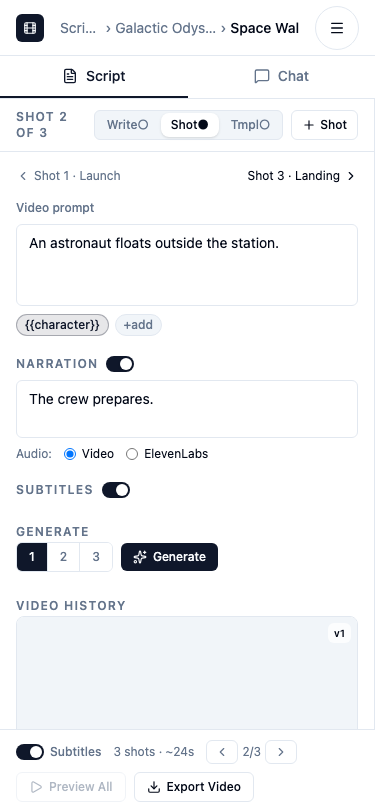
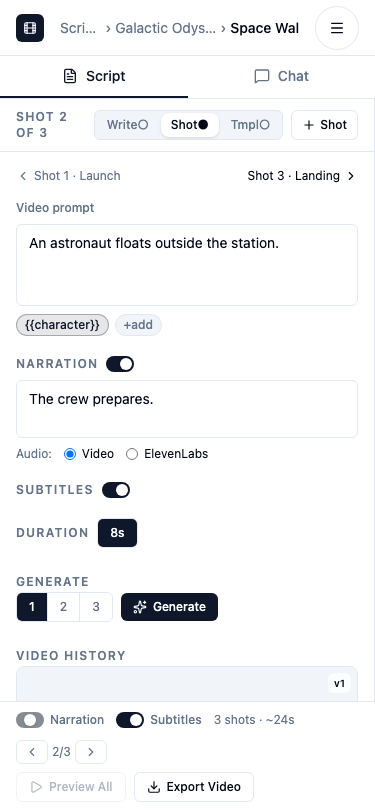
feat(US-071): duration config and per-shot duration picker
- LLMClient.generateVideo() accepts optional duration param
- PoeLLMClient passes duration as extra_body.duration string to veo-3.1
- LoggingLLMClient and MockLLMClient updated to match interface
- ShotModeView: Duration section with segmented button group (data-testid=duration-picker-{shotId})
- ShotCard (Write mode): duration badge showing "{n}s" (data-testid=shot-duration-badge-{shotId})
- YAML export: duration field written per shot
- Audio validation: uses shot.duration instead of hardcoded VIDEO_DURATION = 8
- generateVideo calls pass shot.duration to LLM client
- Bottom-bar total duration computed from sum of shot.duration values
- Updated video-shot-mode-mobile.png screenshot baseline

diff --git a/src/video/pages/VideoScriptView.tsx b/src/video/pages/VideoScriptView.tsx
@@ -155,13 +155,6 @@ type GenerationSlotState =
 
 // ─── Constants ────────────────────────────────────────────────────────────────
 
-/**
- * Default video clip duration in seconds (matches the veo-3.1 generation
- * setting duration: '8'). Used as the reference duration when validating
- * generated narration audio length.
- */
-const VIDEO_DURATION = 8;
-
 // ─── Utilities ────────────────────────────────────────────────────────────────
 
 function generateId(): string {
@@ -910,7 +903,7 @@ function ShotCard({
 
       if (!isMountedRef.current) return;
 
-      if (durationS > VIDEO_DURATION) {
+      if (durationS > shot.duration) {
         const roundedS = Math.round(durationS * 10) / 10;
         const errorMsg = `Audio is too long (${roundedS}s). Shorten the narration text and regenerate.`;
         setAudioError(errorMsg);
@@ -1424,6 +1417,17 @@ function ShotCard({
             </button>
             <span className="text-xs font-medium text-muted-foreground">
               Subtitles
+            </span>
+          </div>
+
+          {/* Duration badge */}
+          <div className="flex items-center gap-1.5">
+            <span
+              className="inline-flex items-center gap-1 rounded-full border border-border bg-muted px-2 py-0.5 text-xs font-medium text-muted-foreground"
+              data-testid={`shot-duration-badge-${shot.id}`}
+            >
+              <Clock className="h-3 w-3" />
+              {shot.duration}s
             </span>
           </div>
 
@@ -2183,7 +2187,7 @@ function ShotModeView({
    * Generate ElevenLabs narration audio for this shot.
    * - Calls LLMClient.generateAudio(narrationText)
    * - Measures the audio duration using HTMLAudioElement
-   * - If duration > VIDEO_DURATION, rejects (does not store) and shows an error
+   * - If duration > shot.duration, rejects (does not store) and shows an error
    * - On success, stores the audioUrl in shot.narration.audioUrl
    * - refreshBalance is called after completion (success or rejection)
    * - isMounted ref guards all setState calls after await
@@ -2240,7 +2244,7 @@ function ShotModeView({
       if (!isMountedRef.current) return;
 
       // Reject if audio is longer than the clip duration
-      if (durationS > VIDEO_DURATION) {
+      if (durationS > shot.duration) {
         const roundedS = Math.round(durationS * 10) / 10;
         const errorMsg = `Audio is too long (${roundedS}s). Shorten the narration text and regenerate.`;
         setAudioError(errorMsg);
@@ -2291,6 +2295,7 @@ function ShotModeView({
   }, [
     isGeneratingAudio,
     shot.id,
+    shot.duration,
     shot.narration.text,
     script.id,
     script.shots,
@@ -2482,12 +2487,13 @@ function ShotModeView({
     }
 
     const promptText = shot.prompt;
+    const shotDuration = shot.duration;
     let successCount = 0;
 
     // Run all slots in parallel
     const slotPromises = initialSlots.map(async (slot) => {
       try {
-        const url = await client.generateVideo(promptText);
+        const url = await client.generateVideo(promptText, shotDuration);
         if (!isMountedRef.current) return;
 
         // Append to storage history
@@ -2562,6 +2568,7 @@ function ShotModeView({
     generateCount,
     shot.id,
     shot.prompt,
+    shot.duration,
     script.id,
     isMountedRef,
     onUpdate,
@@ -2610,7 +2617,7 @@ function ShotModeView({
       }
 
       try {
-        const url = await client.generateVideo(prompt);
+        const url = await client.generateVideo(prompt, shot.duration);
         if (!isMountedRef.current) return;
 
         const latestScript = videoStorageService.getScript(script.id);
@@ -2664,7 +2671,7 @@ function ShotModeView({
         }
       }
     },
-    [script.id, shot.id, isMountedRef, onUpdate, refreshBalance]
+    [script.id, shot.id, shot.duration, isMountedRef, onUpdate, refreshBalance]
   );
 
   // ─── Render ──────────────────────────────────────────────────────────────
@@ -2910,6 +2917,49 @@ function ShotModeView({
               ].join(" ")}
             />
           </button>
+        </div>
+      </div>
+
+      {/* ── DURATION section ──────────────────────────────────────────────────── */}
+      <div className="space-y-2 pt-1">
+        <div className="flex items-center gap-2">
+          <span className="text-xs font-semibold tracking-widest text-muted-foreground uppercase">
+            Duration
+          </span>
+          <div
+            className="flex items-center rounded-md border border-border overflow-hidden"
+            role="group"
+            aria-label="Clip duration"
+            data-testid={`duration-picker-${shot.id}`}
+          >
+            {VIDEO_DURATIONS.map((d) => (
+              <button
+                key={d}
+                type="button"
+                onClick={() => {
+                  const updatedShots = script.shots.map((s) =>
+                    s.id === shot.id ? { ...s, duration: d } : s
+                  );
+                  const updated = videoStorageService.updateScript(script.id, {
+                    shots: updatedShots,
+                  });
+                  if (updated) {
+                    onUpdate(updated);
+                  }
+                }}
+                className={[
+                  "px-3 py-1.5 text-xs font-medium transition-colors",
+                  d > VIDEO_DURATIONS[0] ? "border-l border-border" : "",
+                  shot.duration === d
+                    ? "bg-primary text-primary-foreground"
+                    : "bg-background text-muted-foreground hover:text-foreground hover:bg-accent",
+                ].join(" ")}
+                aria-pressed={shot.duration === d}
+              >
+                {d}s
+              </button>
+            ))}
+          </div>
         </div>
       </div>
 
@@ -3552,6 +3602,7 @@ function VideoScriptViewInner() {
       shots: script.shots.map((shot) => ({
         title: shot.title,
         prompt: shot.prompt,
+        duration: shot.duration,
         subtitles: shot.subtitles,
         narration: {
           enabled: shot.narration.enabled,
@@ -3676,7 +3727,7 @@ function VideoScriptViewInner() {
   }
 
   const shotCount = script.shots.length;
-  const durationS = shotCount * 8;
+  const durationS = script.shots.reduce((sum, s) => sum + s.duration, 0);
 
   // Safe active shot (clamp to valid range)
   const safeActiveShotIndex = Math.min(

diff --git a/src/shared/lib/llm/logging-client.ts b/src/shared/lib/llm/logging-client.ts
@@ -81,18 +81,18 @@ export class LoggingLLMClient implements LLMClient {
     }
   }
 
-  async generateVideo(prompt: string): Promise<string> {
+  async generateVideo(prompt: string, duration?: number): Promise<string> {
     log({
       category: "llm:request",
       action: "llm:video:start",
-      data: { prompt },
+      data: { prompt, duration },
     });
     try {
-      const result = await this.inner.generateVideo(prompt);
+      const result = await this.inner.generateVideo(prompt, duration);
       log({
         category: "llm:response",
         action: "llm:video:complete",
-        data: { prompt, result },
+        data: { prompt, duration, result },
       });
       return result;
     } catch (err) {

diff --git a/src/shared/lib/llm/poe-client.ts b/src/shared/lib/llm/poe-client.ts
@@ -81,12 +81,12 @@ export class PoeLLMClient implements LLMClient {
     return Promise.all(Array.from({ length: count }, makeRequest));
   }
 
-  async generateVideo(prompt: string): Promise<string> {
+  async generateVideo(prompt: string, duration?: number): Promise<string> {
     const response = await this.client.chat.completions.create({
       model: "veo-3.1",
       messages: [{ role: "user", content: prompt }],
       // @ts-expect-error extra_body is a Poe-specific extension not in the OpenAI types
-      extra_body: { size: "1792x1024", duration: "8" },
+      extra_body: { size: "1792x1024", duration: String(duration ?? 8) },
     });
 
     const videoUrl = response.choices[0]?.message?.content;

diff --git a/src/shared/lib/llm/types.ts b/src/shared/lib/llm/types.ts
@@ -34,8 +34,9 @@ export interface LLMClient {
   /**
    * Submit a video prompt to the veo-3.1 model and return a publicly-accessible video URL.
    * @param prompt - text description of the desired video shot
+   * @param duration - optional clip duration in seconds; defaults to VIDEO_DURATIONS[0]
    */
-  generateVideo(prompt: string): Promise<string>;
+  generateVideo(prompt: string, duration?: number): Promise<string>;
 
   /**
    * Submit narration text to the elevenlabs-v3 model and return a publicly-accessible audio URL.

diff --git a/src/shared/lib/llm/mock-client.ts b/src/shared/lib/llm/mock-client.ts
@@ -93,7 +93,7 @@ export class MockLLMClient implements LLMClient {
   }
 
   // eslint-disable-next-line @typescript-eslint/no-unused-vars
-  async generateVideo(_prompt: string): Promise<string> {
+  async generateVideo(_prompt: string, _duration?: number): Promise<string> {
     await this.delay();
     return videoUrlFixture.trim();
   }
